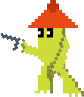
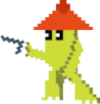
Bob animation fixed

diff --git a/SpaceBob_prototype/Level_1.java b/SpaceBob_prototype/Level_1.java
@@ -173,7 +173,6 @@ public int getScrollOffset() {
         addPlatforms();
         addPlanet();
         addSpikes();
-        addMinions();
         addBob();
         addLives();
         addBulletsDisplayedFirst();
@@ -221,7 +220,7 @@ public int getScrollOffset() {
     }
 
     private void addBob() {
-        addObject(new Bob(), 172, 491);
+        addObject(new Bob(), 110, 510);
     }
 
     private void addSpikes() {
